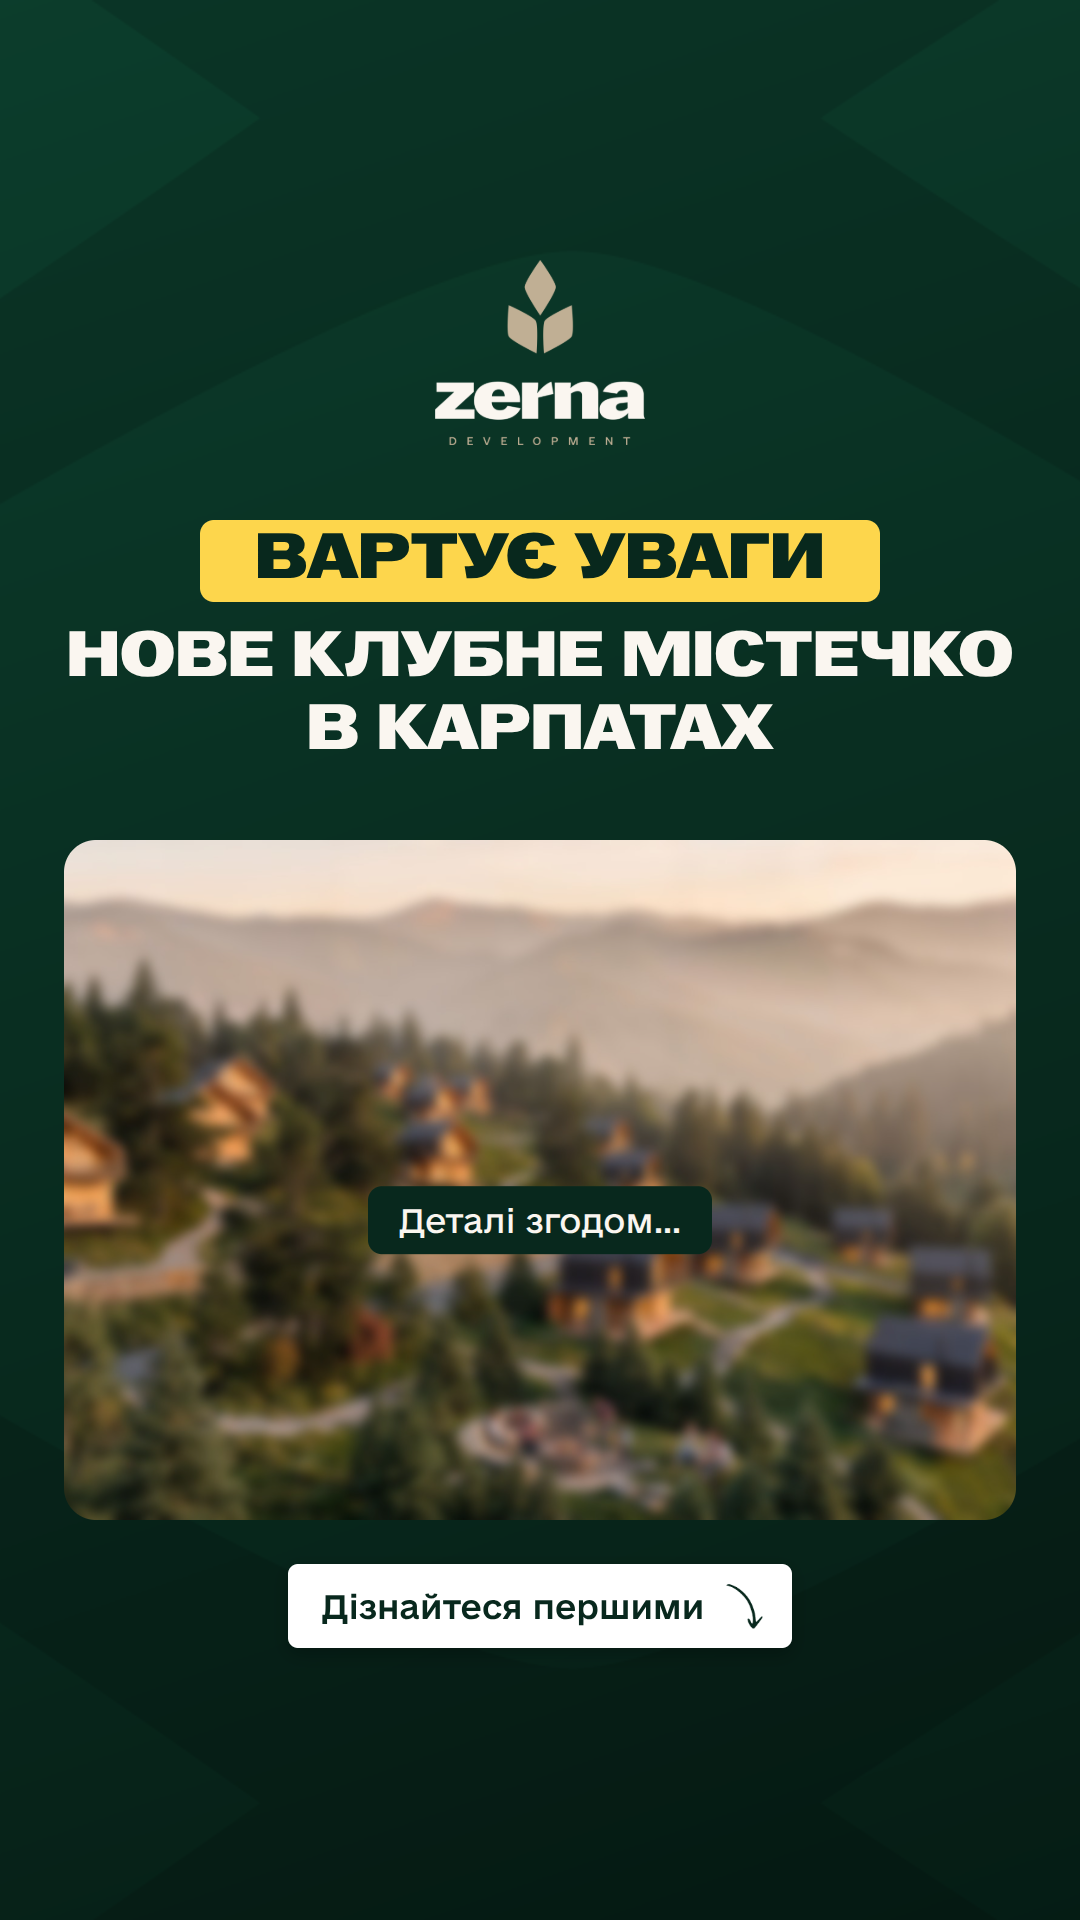
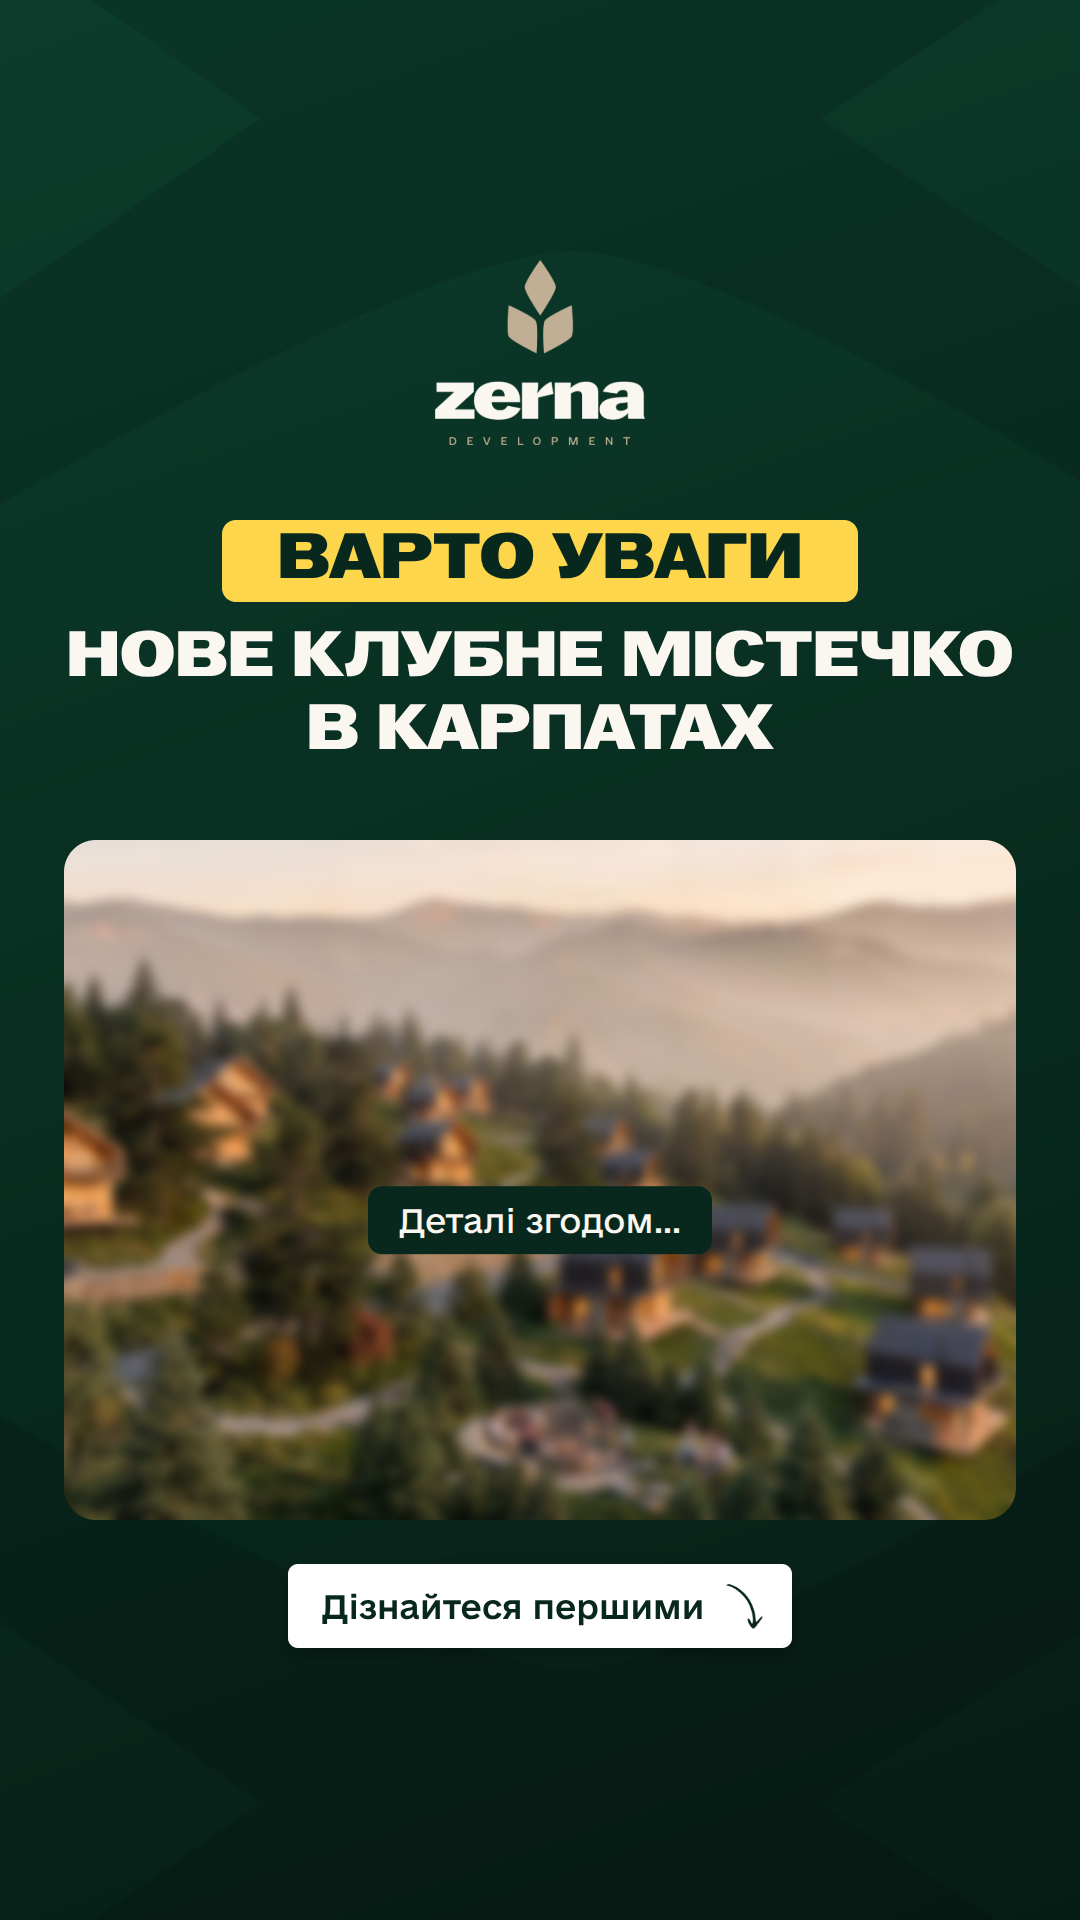
«Варто уваги» instead of the calque «Вартує уваги»
Teaser 1 brand line, teaser 2 posters, cover 2 plate and the READMEs.

Claude-Session: https://claude.ai/code/session_014txzFo5h2qB97A5SdJxbjS

Changed region(s): [[0.1833, 0.25, 0.7639, 0.3125], [0.7944, 0.25, 0.825, 0.3125]]

diff --git a/src/Root.tsx b/src/Root.tsx
@@ -16,7 +16,7 @@ const picture: Z.Picture = {
   cx: [820, 1250],
   gain: 1.9, // a night render: the light has to lift it more than a daylight picture
   light: [
-    [224, -12], // ВАРТУЄ УВАГИ: the beam enters over the forest and the first houses
+    [224, -12], // ВАРТО УВАГИ: the beam enters over the forest and the first houses
     [262, 42],
     [276, 42], // ВСЬОГО 130 КМ ВІД ЛЬВОВА: the road with the cars
     [284, 51],
@@ -61,7 +61,7 @@ export const RemotionRoot: React.FC = () => (
       component={Cover2}
       width={Z.W}
       height={Z.H}
-      defaultProps={{ plate: "ВАРТУЄ УВАГИ", title: ["НОВЕ КЛУБНЕ МІСТЕЧКО", "В КАРПАТАХ"], cta: "Дізнайтеся першими", hint: Z.HINT }}
+      defaultProps={{ plate: "ВАРТО УВАГИ", title: ["НОВЕ КЛУБНЕ МІСТЕЧКО", "В КАРПАТАХ"], cta: "Дізнайтеся першими", hint: Z.HINT }}
     />
   </>
 );

diff --git a/src/zerna/theme.ts b/src/zerna/theme.ts
@@ -57,7 +57,7 @@ export type Variant = {
 // Approved text (variant A). Tone: "whisper", formal "ви".
 export const TEXT: Variant = {
   words: ["А", "ВИ", "ГОТОВІ?", "НОВИЙ", "ПРОЄКТ", "У", "КАРПАТАХ"],
-  reveal: ["ВАРТУЄ", "УВАГИ"],
+  reveal: ["ВАРТО", "УВАГИ"],
   facts: [
     ["ВСЬОГО", "130 КМ", "ВІД ЛЬВОВА"],
     ["НА ВЕРШИНІ", "ГОРИ"],

diff --git a/src/zerna2/theme.ts b/src/zerna2/theme.ts
@@ -32,7 +32,7 @@ export type Text2 = {
 
 // Approved text (tone "whisper", formal "ви"); the question repeats teaser 1 so the posts read as a series.
 export const TEXT2: Text2 = {
-  poster: "ВАРТУЄ УВАГИ",
+  poster: "ВАРТО УВАГИ",
   line1: "А ВИ",
   line2: "ГОТОВІ?",
   row: "КЛУБНЕ МІСТЕЧКО · КАРПАТИ",
